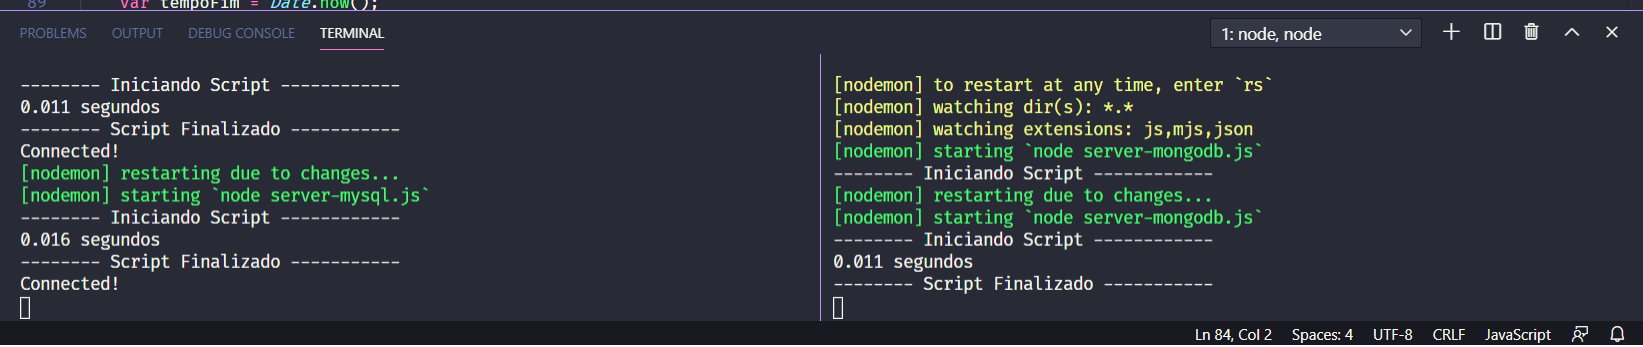
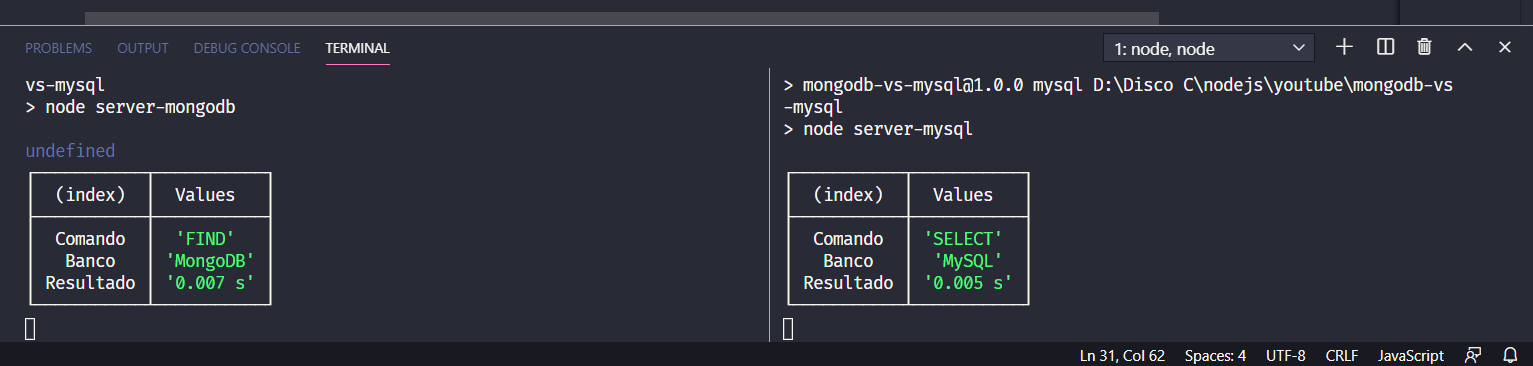
Last Update

diff --git a/server-mysql.js b/server-mysql.js
@@ -8,14 +8,11 @@ var con = mysql.createConnection({
     database:'mongodb-vs-mysql'
   });
   
-  con.connect(function(err) {
-    if (err) throw err;
-    console.log("Connected!");
-  });
-console.log('-------- Iniciando Script ------------');
+  con.connect(function(err) {if (err) throw err;});
+// console.log('-------- Iniciando Script ------------');
 
 async  function mysql_consult(){
-      await con.query("SELECT * FROM clientes", function (err, result, fields) {if (err) throw err;});
+        await con.query("SELECT * FROM clientes", function (err, result, fields) {if (err) throw err;});
 
       //await con.query("SELECT * FROM clientes INNER JOIN empresas e ON empresas_cod_empresa = e._id", function (err, result, fields) {if (err) throw err;});
 }
@@ -24,6 +21,12 @@ var tempoInicio = Date.now();
 
 PromiseAll.all([mysql_consult()]).then(function (){
     var tempoFim = Date.now();
-    console.log(((tempoFim-tempoInicio)/1000)+' segundos ');
-    console.log('-------- Script Finalizado -----------');
+    var result = {
+        Comando:'SELECT',
+        Banco:'MySQL',
+        Resultado: ((tempoFim-tempoInicio)/1000)+' s',
+    }
+    console.table(result);
+
+    // console.log('-------- Script Finalizado -----------');
 })

diff --git a/server-mongodb.js b/server-mongodb.js
@@ -10,16 +10,21 @@ mongoose.connect('mongodb://localhost:27017/mongodb-vs-mysql',{
     if(err){ console.log(err) }
 });
 
-console.log('-------- Iniciando Script ------------');
+// console.log('-------- Iniciando Script ------------');
 
 async  function mongodb_consult(){
-    cliente_model.find().populate();
+    cliente_model.find({});
 }
 
 var tempoInicio = Date.now();
 
 PromiseAll.all([mongodb_consult()]).then(function (){
     var tempoFim = Date.now();
-    console.log(((tempoFim-tempoInicio)/1000)+' segundos ');
-    console.log('-------- Script Finalizado -----------');
+    var result = {
+        Comando:'FIND',
+        Banco:'MongoDB',
+        Resultado: ((tempoFim-tempoInicio)/1000)+' s',
+    }
+    console.table(result);
+    // console.log('-------- Script Finalizado -----------');
 })
